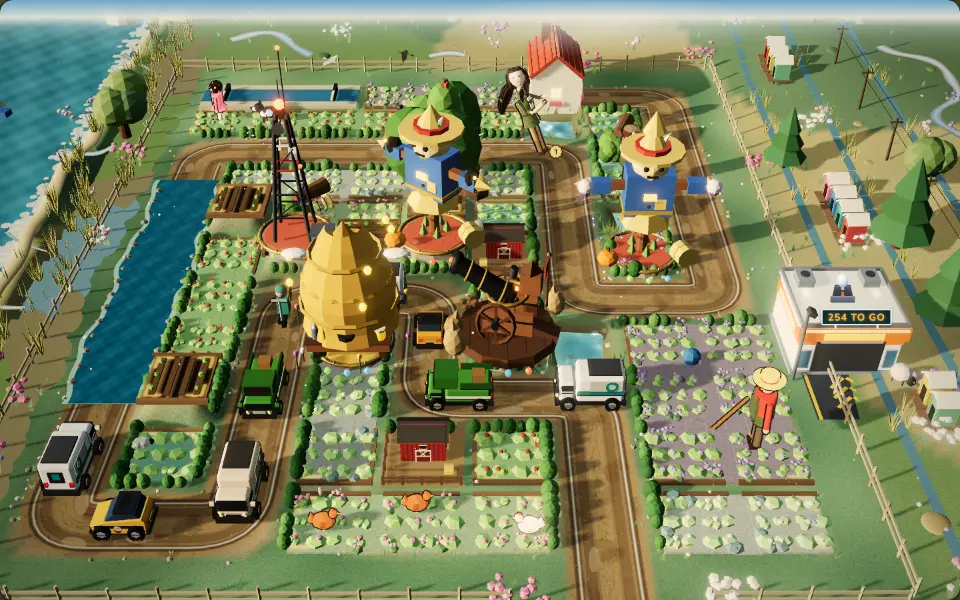
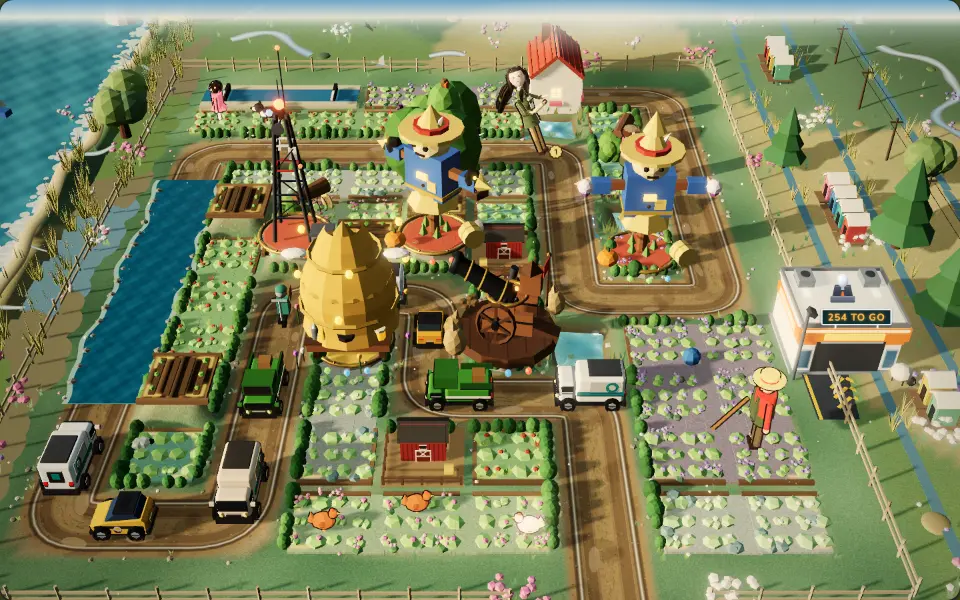
Hedgerow 2D: a tower's keep-off box is as tall and wide as its sprite draws (measured once per kind and tier offscreen, at the field's 1.4x), so the swarm badge and Cath's round line keep off the windmill's sails and the mast's tip (l34 D: the badge sat on the sails, her line on the mast). bark, swa
Claude-Session: https://claude.ai/code/session_01SimvMREEHyNXjq5g7MJWy4

diff --git a/games/hedgerow/src/main.ts b/games/hedgerow/src/main.ts
@@ -121,7 +121,7 @@ import { cardBody, damageLabel, leakReport as fleetLeakReport, lockLine, lossCau
 import { roundFor } from "./rounds";
 import { fieldCards, initUnlocks, isOpen, markFieldCardSeen, markUnlockSeen, pendingUnlock, type UnlockId } from "./unlocks";
 import { LEVELS } from "./levels";
-import { Renderer } from "./render";
+import { FIELD_TOWER, Renderer } from "./render";
 import type { Renderer3D } from "./render3d";
 
 /** The 3D renderer and three.js load as their own chunk: the map screen doesn't need them, so the first
@@ -155,7 +155,7 @@ import { suggestedPlot } from "./bot";
 import { barkSpot, type BarkSpot } from "./cathsay";
 import { BARK_SHOW, BarkGate, barkCorner, type BarkKind } from "./bark";
 import { countersFor, needsUpgrade, newThisRound, rosetteSpot, traitsOf, TRAIT_TEXT, type Box, type Trait } from "./intro";
-import { enemySilhouette, towerSilhouette, towerTier } from "./sprites";
+import { enemySilhouette, towerSilhouette, towerTier, towerReach } from "./sprites";
 import { countAt, foldLeaks, tallyTimeline, type LeakRecord, type TallyCounter } from "./tally";
 import { PATHS, PATH_TIERS, buildName, hasPaths, legacyPath, pathBlock, topPath, type Path, type PathIndex, type PathKind } from "./paths";
 import * as sfx from "./sound";
@@ -5189,7 +5189,25 @@ function emptyPlotBoxes(g: Game): Box[] {
   return cellBoxes(g, (c, r) => isPlot(g.level, c, r) && !g.towers.some((t) => t.col === c && t.row === r));
 }
 function builtPlotBoxes(g: Game): Box[] {
-  return cellBoxes(g, (c, r) => isPlot(g.level, c, r) && g.towers.some((t) => t.col === c && t.row === r));
+  const out = cellBoxes(g, (c, r) => isPlot(g.level, c, r) && g.towers.some((t) => t.col === c && t.row === r));
+  // Plan item 721: on the 2D field a tower stands over its plot as tall as its sprite (the windmill's sails, the mast's
+  // tip): l34's line at D sat on the radio mast's top, its cell clear.
+  if (renderer && !is3D(renderer))
+    for (const b of out) {
+      const tw = g.towers.find((t) => {
+        const p = renderer!.cellCenter(t.col, t.row);
+        return !!p && Math.abs(p.x - (b.x + b.w / 2)) < 1 && Math.abs(p.y - (b.y + b.h / 2)) < 1;
+      });
+      if (!tw) continue;
+      const r = towerReach(tw.kind, tw.tier, tw.path);
+      const up = Math.max(0, r.up * FIELD_TOWER * b.h - b.h / 2);
+      const side = Math.max(0, r.half * FIELD_TOWER * b.w - b.w / 2);
+      b.y -= up;
+      b.h += up;
+      b.x -= side;
+      b.w += side * 2;
+    }
+  return out;
 }
 
 /** Every lane cell's box on screen (client pixels). */

diff --git a/games/hedgerow/src/sprites.ts b/games/hedgerow/src/sprites.ts
@@ -231,6 +231,49 @@ function drawPlinth(ctx: C, tier: 1 | 2 | 3, x: number, base: number, s: number)
   ctx.restore();
 }
 
+/**
+ * Plan item 721: how far a tower's sprite reaches above the point it is drawn at, in its drawn size (the windmill's sails at
+ * the top of their turn, the mast's tip). Measured once per kind and tier by drawing it offscreen over a few moments
+ * of its idle; the badges and Cath's line keep clear of it (a box 1.05 cells up let them meet the sails and the mast).
+ */
+const reachCache = new Map<string, { up: number; half: number }>();
+export function towerReach(kind: TowerKind, tier: number, path?: readonly number[]): { up: number; half: number } {
+  const key = `${kind}:${towerTier({ tier, ...(path ? { path } : {}) })}:${path?.join(",") ?? ""}`;
+  const known = reachCache.get(key);
+  if (known) return known;
+  let reach = { up: 0.75, half: 0.5 };
+  try {
+    const S = 64;
+    const W = S * 3;
+    const H = S * 4;
+    const cv = typeof document !== "undefined" ? document.createElement("canvas") : null;
+    const ctx = cv?.getContext("2d", { willReadFrequently: true });
+    if (cv && ctx) {
+      cv.width = W;
+      cv.height = H;
+      const cy = S * 3;
+      let top = cy;
+      let side = 0;
+      for (let i = 0; i < 8; i++) {
+        ctx.clearRect(0, 0, W, H);
+        drawTower(ctx, { kind, tier, spec: null, fired: 9, dazed: false, bare: true, ...(path ? { path } : {}) }, W / 2, cy, S, i * 0.41);
+        const px = ctx.getImageData(0, 0, W, H).data;
+        for (let y = 0; y < H; y++)
+          for (let x = 0; x < W; x++)
+            if (px[(y * W + x) * 4 + 3]! > 40) {
+              top = Math.min(top, y);
+              side = Math.max(side, Math.abs(x + 0.5 - W / 2));
+            }
+      }
+      reach = { up: (cy - top) / S + 0.03, half: side / S + 0.03 };
+    }
+  } catch {
+    // no canvas (tests): about a tower's usual size
+  }
+  reachCache.set(key, reach);
+  return reach;
+}
+
 export function drawTower(ctx: C, look: TowerLook, x: number, y: number, s: number, t: number): void {
   const base = y + s * 0.3;
   const tier = towerTier(look);

diff --git a/games/hedgerow/src/render.ts b/games/hedgerow/src/render.ts
@@ -64,6 +64,7 @@ import {
   heroSize,
   HERO_SCALE,
   drawTower,
+  towerReach,
   enemyLift,
   enemyScale,
   drawnLen,
@@ -80,7 +81,7 @@ import { driverFace } from "./fleetfaces";
 /** Plan item 322: a tower on the field is drawn this much over its cell's size. */
 // Plan item 431: 1.4 cells (was 1.2): a tower is the thing worth looking at on the field, not a token on its plot (at
 // 1.56, the item's 1.3x, neighbours on adjacent plots overlapped and the top row met the frame).
-const FIELD_TOWER = 1.4;
+export const FIELD_TOWER = 1.4;
 
 interface Shot {
   kind: TowerKind;
@@ -1730,7 +1731,13 @@ export class Renderer {
     const rode = this.badged;
     rode.clear();
     // Plan item 695: the towers' screen boxes (the cell and the sprite's height over it), for the badges to keep off.
-    this.towerBoxes = game.towers.map((tw) => ({ x: X(tw.col), y: Y(tw.row) - s * 0.55, w: s, h: s * 1.55 }));
+    // Plan item 721: as tall as its sprite draws (the windmill's sails, the mast's tip), not a flat 1.05 cells over its centre.
+    this.towerBoxes = game.towers.map((tw) => {
+      const r = towerReach(tw.kind, tw.tier, tw.path);
+      const up = Math.max(1.05, r.up * FIELD_TOWER) * s;
+      const half = Math.max(0.5, r.half * FIELD_TOWER) * s;
+      return { x: X(tw.col + 0.5) - half, y: Y(tw.row + 0.5) - up, w: half * 2, h: s * 0.5 + up };
+    });
     this.badgeBoxes = [];
     // Plan item 700: and the vehicles drawn on the lanes (l27's '181 103 51 9' sat on the lorries it counted).
     this.vehicleBoxes = [];
